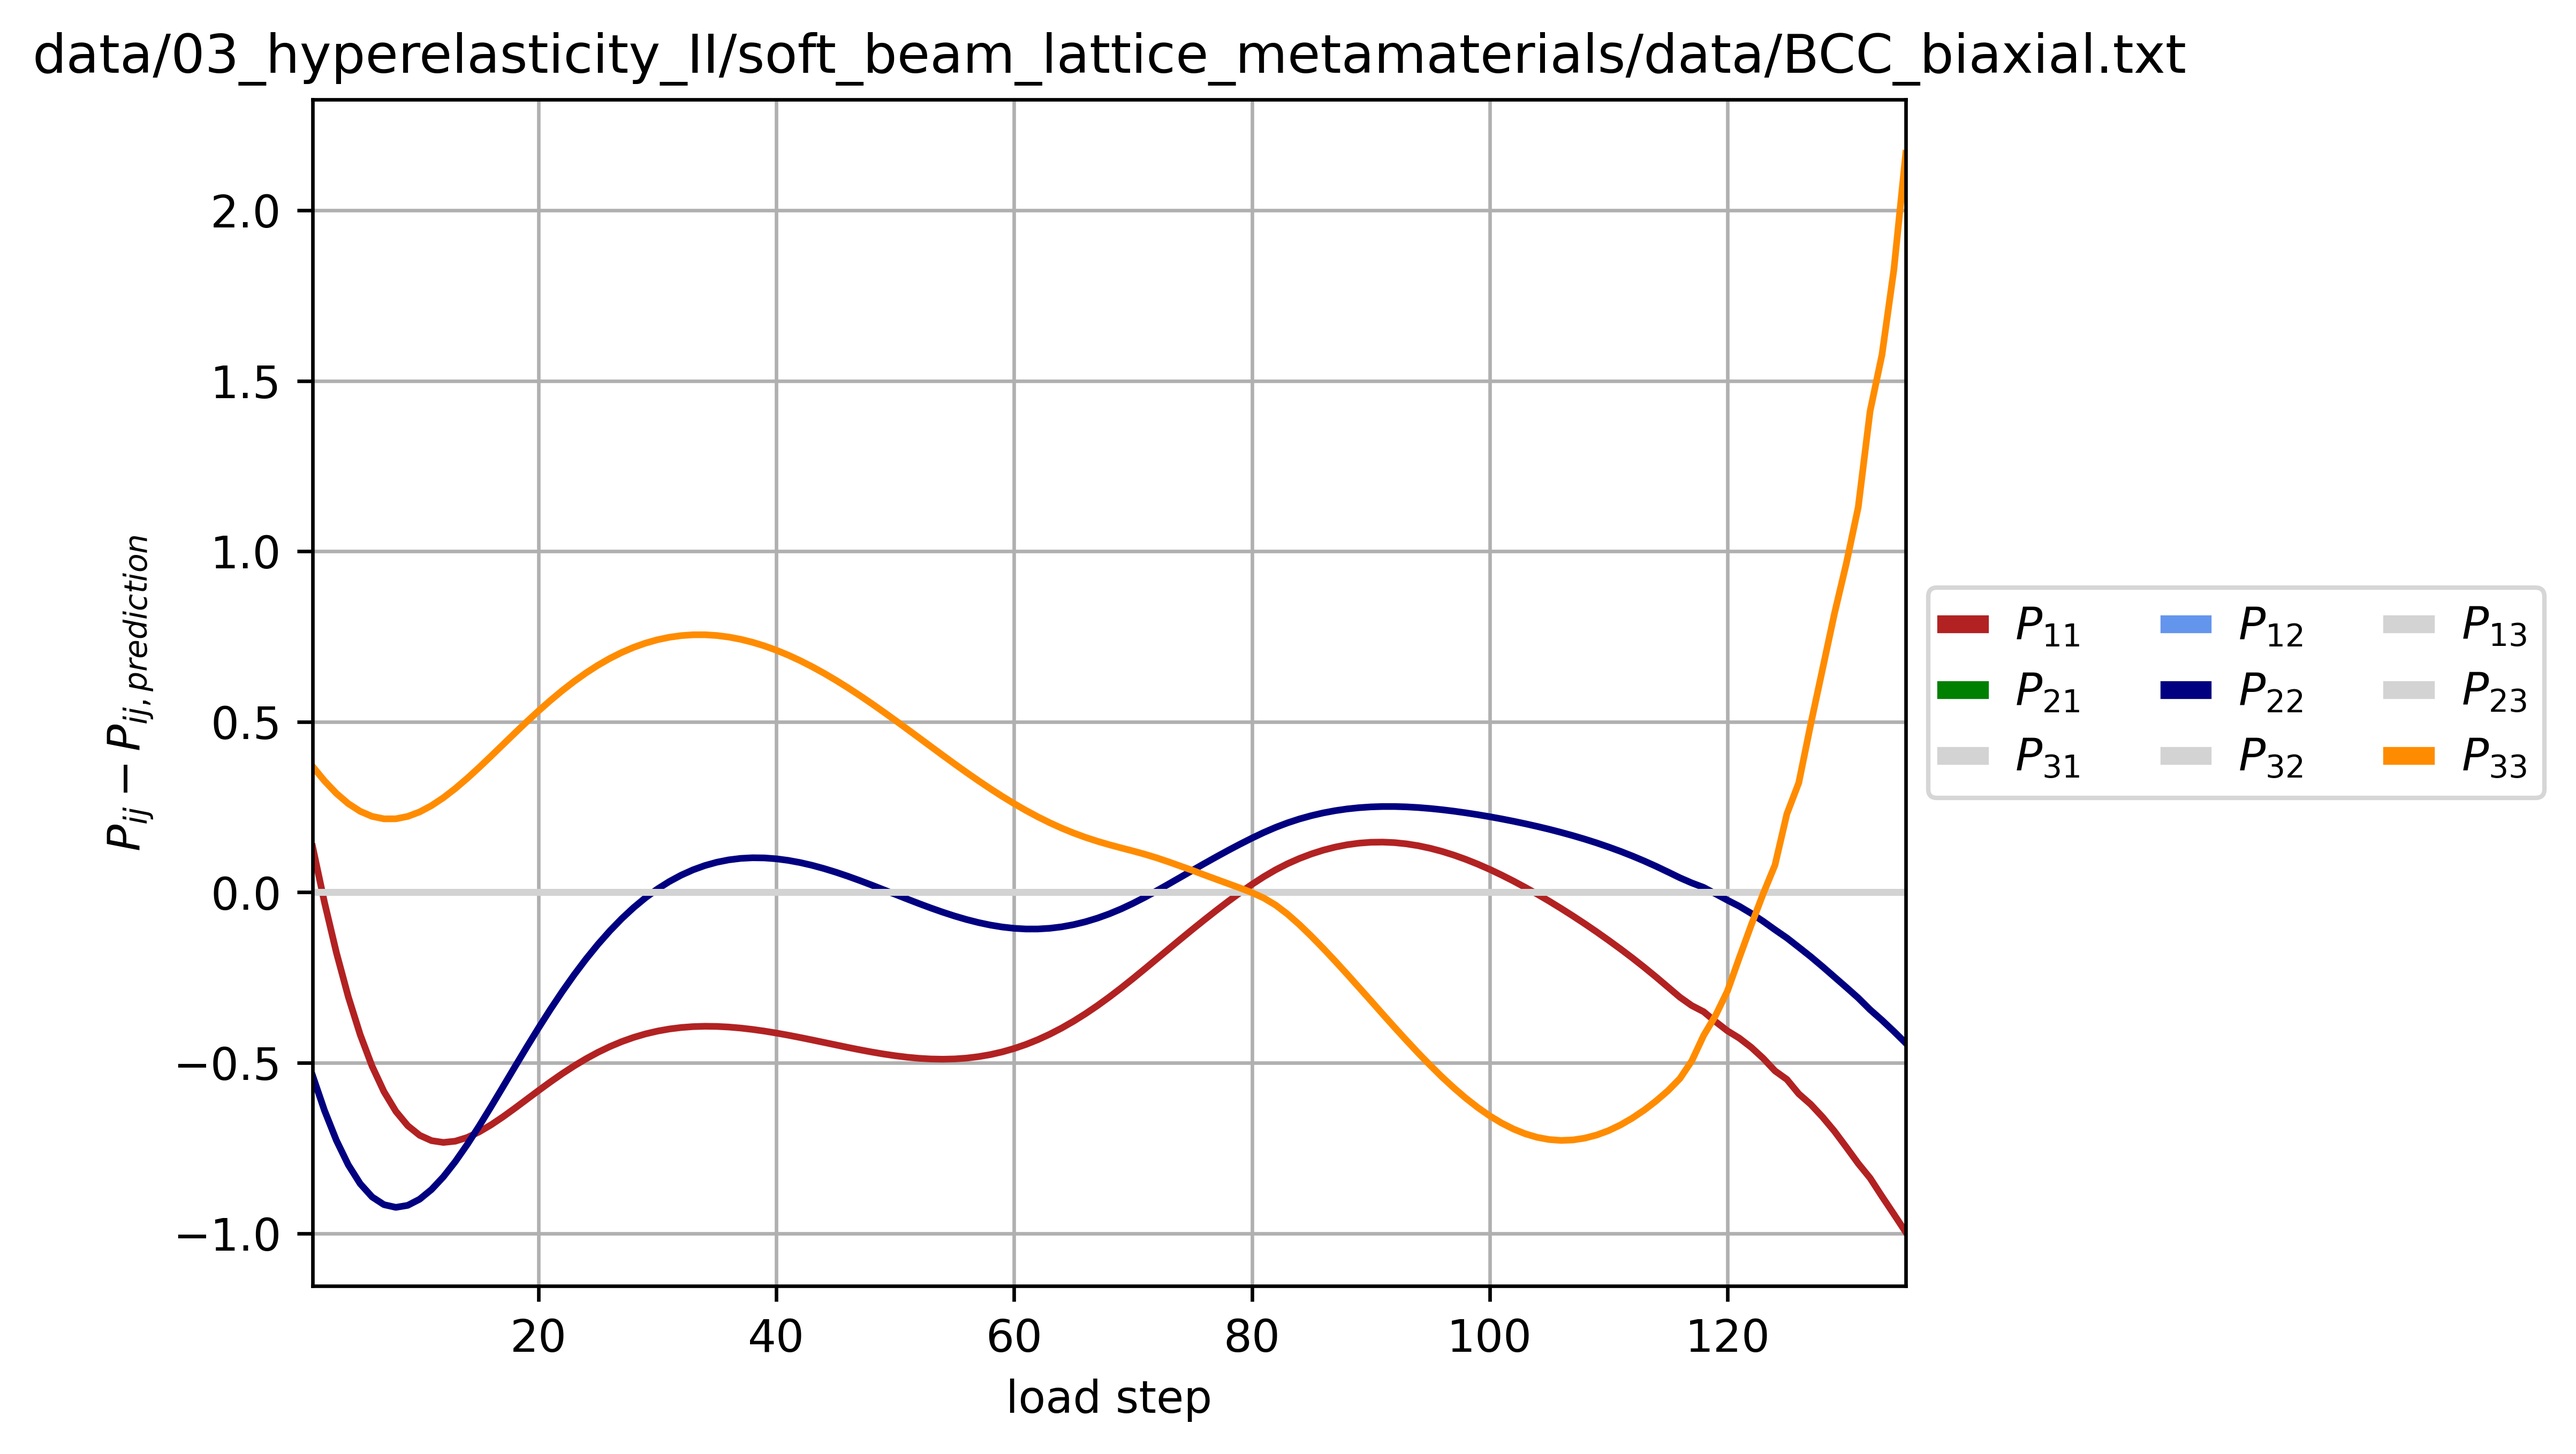
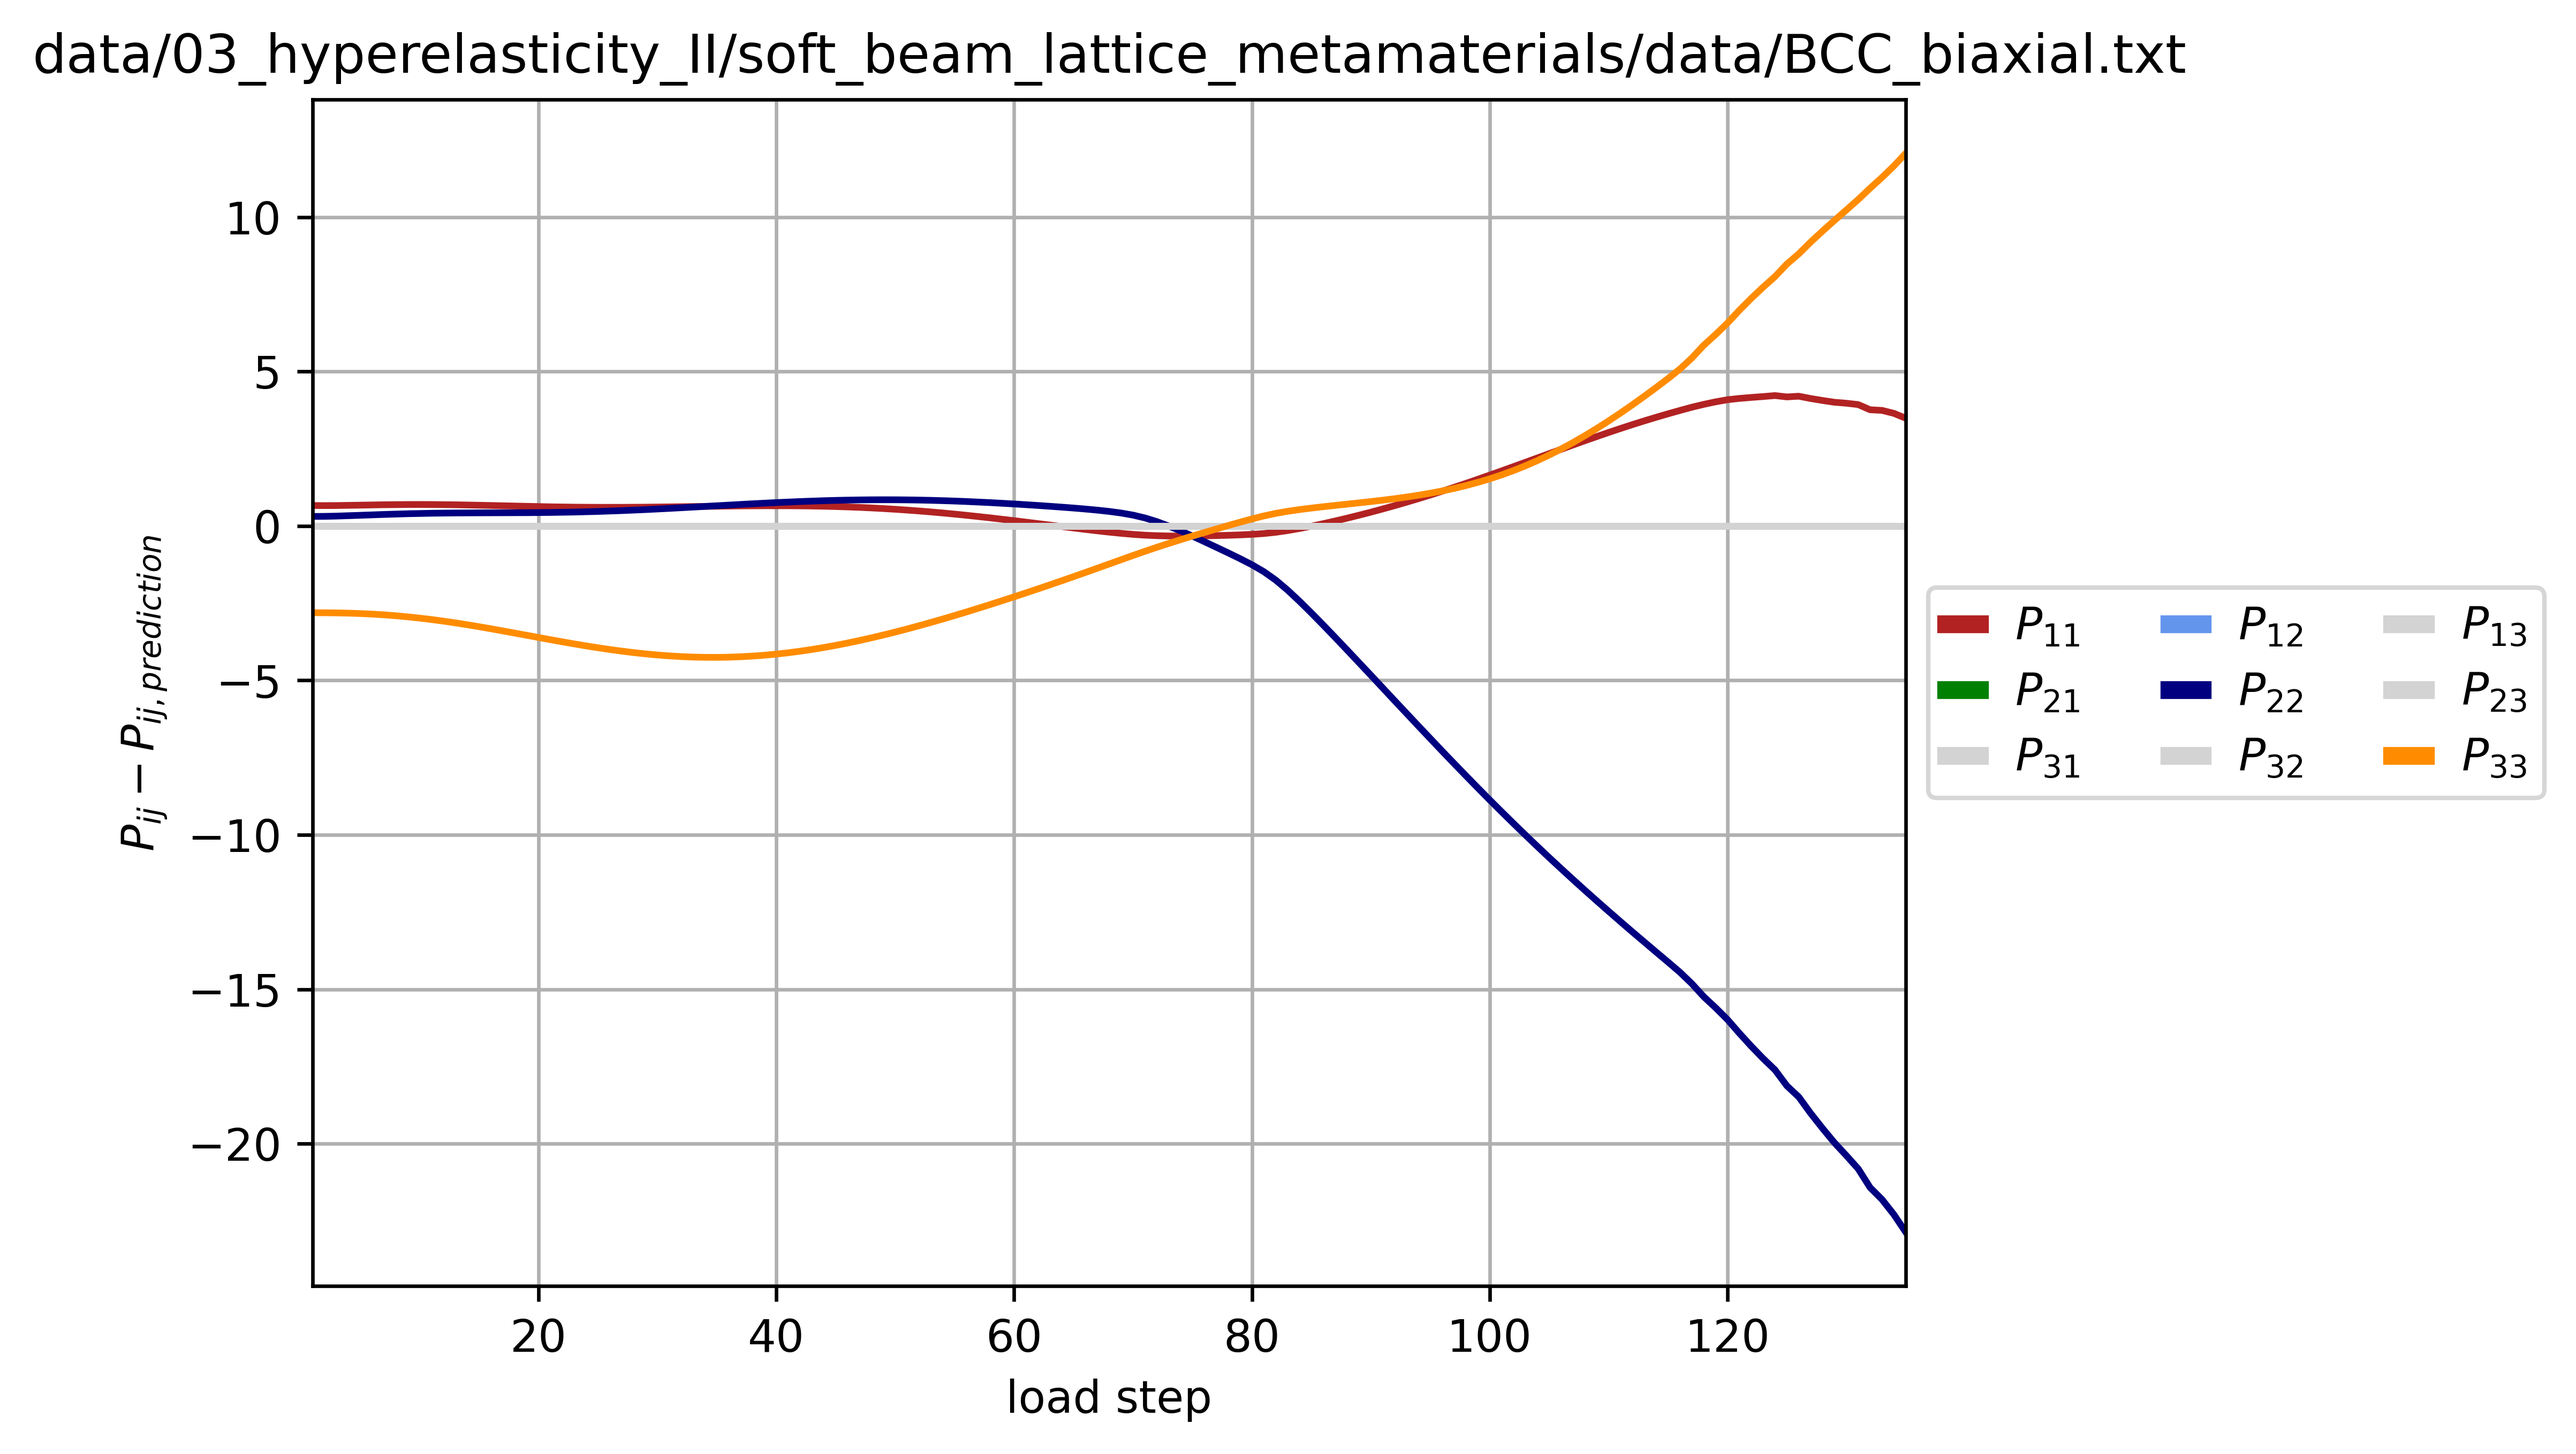
Scaling for cubic aniso and degrad based training

diff --git a/02_hyperelasticity_I/modules/training.py b/02_hyperelasticity_I/modules/training.py
@@ -36,20 +36,23 @@ import modules.data as ld
 class DefGradBased:
     ''' Class for training a physics augmented neutral network
     calling order: initialize --> preprocess --> calibrate --> evaluate '''
-    def __init__(self, paths, loss_weights, loss_weighting):
+    def __init__(self, paths, loss_weights, loss_weighting, scaling):
         # initialize variables
         self.loss_weights = loss_weights
         self.loss_weighting = loss_weighting
+        self.scaling = scaling
 
         # load calibration data
         self.xs, self.ys, self.dys, self.batch_sizes = self.__load(paths)
         
         # preform pre-preocessing
         self.sample_weights = np.ones(np.sum(self.batch_sizes))
+        if self.scaling: self.scalefactor = tf.math.reduce_max(tf.math.abs(self.dys)) ** (-1)
+        else: self.scalefactor = 1
         self.__preprocess()
 
         # create model
-        self.model = lm.main(r_type='TransverseIsotropy', loss_weights=self.loss_weights)
+        self.model = lm.main(r_type='DefGradBased', loss_weights=self.loss_weights)
 
     def __load(self, paths):
         ''' Load data for training or testing from a path '''
@@ -62,6 +65,10 @@ class DefGradBased:
 
     def __preprocess(self):
         ''' Preforms necessary pre-preocessing steps before model calibration '''
+        # rescale
+        self.ys = self.ys * self.scalefactor
+        self.dys = self.dys * self.scalefactor
+        
         # apply load weighting strategy
         if self.loss_weighting:
             self.sample_weights = ld.get_sample_weights(self.xs, self.batch_sizes)
@@ -101,6 +108,15 @@ class DefGradBased:
         ''' Perform evaluation of a single load path '''
         xs, ys, dys, batch_size = self.__load([path])
 
+        # rescale
+        ys = ys * self.scalefactor
+        dys = dys * self.scalefactor
+
+        if self.loss_weighting:
+            sample_weights = ld.get_sample_weights(xs, batch_size)
+        else:
+            sample_weights = np.ones(np.sum(batch_size))
+
         # evaluate objectivity and material symmetry condition
         xs = qobj @ xs @ qmat
         dys = qobj @ dys @ qmat
@@ -111,21 +127,16 @@ class DefGradBased:
         # Potential correction - for P training
         # shift reference value ys by normalization offset
         # to ensure reasonable results from tensorflow evalutation function
-        if self.loss_weights == [0, 1]:
-            ys_I, _ = self.evaluate_normalization()
-            # normalization
-            ys_eval = ys + ys_I[0,0]
-            ys_pred = ys_pred - ys_I[0,0]
-        else:
-            # no normalization
-            ys_eval = ys
+        # if self.loss_weights == [0, 1]:
+        #     ys_I, _ = self.evaluate_normalization()
+        #     # normalization
+        #     ys_eval = ys + ys_I[0,0]
+        #     ys_pred = ys_pred - ys_I[0,0]
+        # else:
+        #     # no normalization
+        #     ys_eval = ys
 
-        if self.loss_weighting:
-            sample_weights = ld.get_sample_weights(xs, batch_size)
-        else:
-            sample_weights = np.ones(np.sum(batch_size))
-
-        loss = self.model.evaluate(xs, [ys_eval, dys], 
+        loss = self.model.evaluate(xs, [ys, dys], 
                                     verbose=0,
                                     sample_weight=sample_weights)
 
@@ -144,20 +155,23 @@ class DefGradBased:
 class CubicAnisotropy:
     ''' Class for training a physics augmented neutral network
     calling order: initialize --> preprocess --> calibrate --> evaluate '''
-    def __init__(self, paths, loss_weights, loss_weighting):
+    def __init__(self, paths, loss_weights, loss_weighting, scaling):
         # initialize variables
         self.loss_weights = loss_weights
         self.loss_weighting = loss_weighting
+        self.scaling = scaling
 
         # load calibration data
         self.xs, self.ys, self.dys, self.batch_sizes = self.__load(paths)
         
         # preform pre-preocessing
         self.sample_weights = np.ones(np.sum(self.batch_sizes))
+        if self.scaling: self.scalefactor = tf.math.reduce_max(tf.math.abs(self.dys)) ** (-1)
+        else: self.scalefactor = 1
         self.__preprocess()
 
         # create model
-        self.model = lm.main(r_type='TransverseIsotropy', loss_weights=self.loss_weights)
+        self.model = lm.main(r_type='CubicAnisotropy', loss_weights=self.loss_weights)
 
     def __load(self, paths):
         ''' Load data for training or testing from a path '''
@@ -170,6 +184,10 @@ class CubicAnisotropy:
 
     def __preprocess(self):
         ''' Preforms necessary pre-preocessing steps before model calibration '''
+        # rescale
+        self.ys = self.ys * self.scalefactor
+        self.dys = self.dys * self.scalefactor
+
         # apply load weighting strategy
         if self.loss_weighting:
             self.sample_weights = ld.get_sample_weights(self.xs, self.batch_sizes)
@@ -209,31 +227,39 @@ class CubicAnisotropy:
         ''' Perform evaluation of a single load path '''
         xs, ys, dys, batch_size = self.__load([path])
 
-        # predict using the trained model
-        ys_pred, dys_pred = self.model.predict(xs)
-
-        # Potential correction - for P training
-        # shift reference value ys by normalization offset
-        # to ensure reasonable results from tensorflow evalutation function
-        if self.loss_weights == [0, 1]:
-            ys_I, _ = self.evaluate_normalization()
-            # normalization
-            ys_eval = ys + ys_I[0,0]
-            ys_pred = ys_pred - ys_I[0,0]
-        else:
-            # no normalization
-            ys_eval = ys
+        # scaling
+        ys = ys * self.scalefactor
+        dys = dys * self.scalefactor
 
         if self.loss_weighting:
             sample_weights = ld.get_sample_weights(xs, batch_size)
         else:
             sample_weights = np.ones(np.sum(batch_size))
 
-        loss = self.model.evaluate(xs, [ys_eval, dys], 
+        # predict using the trained model
+        ys_pred, dys_pred = self.model.predict(xs)
+
+        # Potential correction - for P training
+        # shift reference value ys by normalization offset
+        # to ensure reasonable results from tensorflow evalutation function
+        # if self.loss_weights == [0, 1]:
+        #     ys_I, _ = self.evaluate_normalization()
+        #     # normalization
+        #     ys_eval = ys + ys_I[0,0]
+        #     ys_pred = ys_pred - ys_I[0,0]
+        # else:
+        #     # no normalization
+        #     ys_eval = ys
+
+        loss = self.model.evaluate(xs, [ys, dys], 
                                     verbose=0,
                                     sample_weight=sample_weights)
 
         if showplots:
+             # rescale to originale scale for plotting
+            ys_pred = ys_pred
+            dys_pred = dys_pred
+
             # reshape right Cauchy-Green-Tensor
             #Cs = tf.einsum('ikj,ikl->ijl',xs,xs)
             cs = lm.IndependentValues()(layers.Flatten()(lm.RightCauchyGreenTensor()(xs)))

diff --git a/02_hyperelasticity_I/main_defgrad_based.py b/02_hyperelasticity_I/main_defgrad_based.py
@@ -41,10 +41,12 @@ paths = [
     ]
 
 lw = [1, 1]
+scaling = True
 
-tmodel = training.DefGradBased(paths=paths[:4],
+tmodel = training.DefGradBased(paths=paths[:3],
                                 loss_weights=lw,
-                                loss_weighting=True)
+                                loss_weighting=True,
+                                scaling=True)
 
 tmodel.calibrate(epochs=5000, verbose=2)
 
@@ -65,7 +67,7 @@ loss['total'] = loss['W'] + loss['P'] # in case some loss weights != 0
 loss['paths'] = paths[:]
 loss
 
-# %% Observers
+# %% Evaluate objectivity
 robjs = R.identity()
 robjs = R.concatenate([robjs, R.random(9)])
 
@@ -77,8 +79,9 @@ for Qobj in robjs.as_matrix(): # iteration over material symmetry group
                             showplots=False)
     print(results)
 
-# %% Material symmetry group
+# %% Evaluate material symmetry
 
+# create material symmetry group
 rmats = R.identity()
 rmats = R.concatenate([rmats, R.from_euler('x', [np.pi/2, np.pi, 3*np.pi/2])])
 rmats = R.concatenate([rmats, R.from_euler('y', [np.pi/2, np.pi, 3*np.pi/2])])
@@ -103,7 +106,7 @@ for Qmat in rmats.as_matrix(): # iteration over material symmetry group
     results = tmodel.evaluate(paths[7:8],  
                             qobj=R.identity().as_matrix(),
                             qmat=Qmat,
-                            showplots=True)
+                            showplots=False)
     #print(results)
 
 

diff --git a/02_hyperelasticity_I/data_visualization_cubic_anisotropy.py b/02_hyperelasticity_I/data_visualization_cubic_anisotropy.py
@@ -1,0 +1,39 @@
+#!/usr/bin/env python3
+# -*- coding: utf-8 -*-
+"""
+Created on Fri Nov 18 10:24:45 2022
+
+@author: jasper
+"""
+
+#%%
+'''
+import modules
+
+'''
+import os
+
+# user defined modules
+import modules.data as ld
+from modules.plots import plot_imported_data
+
+# %%
+'''
+Evaluate imported F, P and W data
+
+'''
+
+# load deformation, stress and energy data
+paths = [
+    'data/03_hyperelasticity_II/soft_beam_lattice_metamaterials/data/BCC_uniaxial.txt',
+    'data/03_hyperelasticity_II/soft_beam_lattice_metamaterials/data/BCC_biaxial.txt',
+    'data/03_hyperelasticity_II/soft_beam_lattice_metamaterials/data/BCC_shear.txt',
+    'data/03_hyperelasticity_II/soft_beam_lattice_metamaterials/data/BCC_volumetric.txt',
+    'data/03_hyperelasticity_II/soft_beam_lattice_metamaterials/data/BCC_planar.txt',
+    'data/03_hyperelasticity_II/soft_beam_lattice_metamaterials/data/BCC_test1.txt',
+    'data/03_hyperelasticity_II/soft_beam_lattice_metamaterials/data/BCC_test2.txt',
+    'data/03_hyperelasticity_II/soft_beam_lattice_metamaterials/data/BCC_test3.txt'
+    ]
+F, P, W = ld.read_txt(paths[0])
+
+plot_imported_data(F, P, W)

diff --git a/02_hyperelasticity_I/modules/models.py b/02_hyperelasticity_I/modules/models.py
@@ -236,16 +236,16 @@ class CubicAnisoInvariants(layers.Layer):
     ''' Layer that computed the invariants for cubic anisotropy '''
     def __init__(self):
         super().__init__()
-        self.G = tf.tensordot(tf.eye(3), tf.eye(3), axes=0) # TODO: make sure this code is correct
+        self.G = np.tensordot(np.eye(3), np.eye(3), axes=0) # TODO: make sure this code is correct
 
     def __call__(self, F, C):
         I1 = tf.linalg.trace(C)
         C_inv = tf.linalg.inv(C)
         Cof_C = tf.linalg.det(C)[:, tf.newaxis, tf.newaxis] * C_inv
-        I2 = tf.linalg.trace()
+        I2 = tf.linalg.trace(Cof_C)
         J = tf.linalg.det(F)
-        I7 = tf.tensordot(C, tf.tensordot(self.G, C))
-        I11 = tf.tensordot(Cof_C, tf.tensordot(self.G, Cof_C))
+        I7 = tf.einsum('xij,ijkl,xkl->x', C, self.G, C)
+        I11 = tf.einsum('xij,ijkl,xkl->x', Cof_C, self.G, Cof_C)
         return tf.stack([I1, I2, J, -J, I7, I11], axis=1)
     
 

diff --git a/02_hyperelasticity_I/main_cubic_anisotropy.py b/02_hyperelasticity_I/main_cubic_anisotropy.py
@@ -40,10 +40,12 @@ paths = [
     ]
 
 lw = [1, 1]
+scaling = False # scale stresses to range [-1, 1]
 
 tmodel = training.CubicAnisotropy(paths=paths[:4],
                                 loss_weights=lw,
-                                loss_weighting=True)
+                                loss_weighting=True,
+                                scaling=scaling)
 
 tmodel.calibrate(epochs=5000, verbose=2)
 
